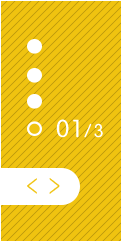
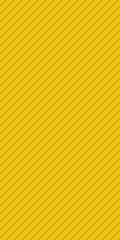
'a'

Changed region(s): [[0.0, 0.0, 1.0, 1.0], [0.875, 0.4083, 0.9, 0.4375], [0.4, 0.9917, 0.425, 1.0]]

diff --git a/css/list.css b/css/list.css
@@ -128,12 +128,61 @@ input, select {
 
 .banner5 {
   width: 1000px;
-  height: auto;
+  height: 250px;
   position: absolute;
+  bottom: 0;
   left: 0;
   right: 0;
-  margin: auto;
-  bottom: 30;
+  margin: 0 auto;
+  background: url(../imgs/list/111.png);
+  background-size: cover;
+  background-repeat: no-repeat;
+  background-size: 100%;
+}
+
+.yuan {
+  width: 50px;
+  height: 180px;
+  text-align: right;
+  padding-top: 10px;
+  padding-left: 10px;
+  box-sizing: border-box;
+}
+
+.yuan1 {
+  width: 25px;
+  height: 25px;
+  border-radius: 50%;
+  background: white;
+  margin-top: 15px;
+  border: 2px solid white;
+  box-sizing: border-box;
+  cursor: pointer;
+}
+
+.yuan span {
+  color: white;
+  margin-left: 25px;
+}
+
+.yuan2 {
+  width: 70px;
+  height: 65px;
+  background: url(../imgs/list/tuo.png);
+  background-size: cover;
+  background-repeat: no-repeat;
+  margin-top: 10px;
+}
+
+.yuan2 a {
+  display: block;
+  width: 25px;
+  height: 60px;
+  float: left;
+  color: #edd325;
+  font-size: 30px;
+  line-height: 40px;
+  text-align: center;
 }
 
 /* banner*/

diff --git a/css/scss/list.scss b/css/scss/list.scss
@@ -80,9 +80,51 @@
     right:0px;
 }
 .banner5{
-    @include k-g(1000px,auto);
-    @include left-right;
-    bottom:30;
+    @include k-g(1000px,250px);
+    position: absolute;
+    bottom: 0;
+    left: 0;
+    right:0;
+    margin:0 auto;
+    @include bg(url(../imgs/list/111.png));
+    background-size: 100%;
+}
+.yuan{
+    width:50px;
+    height:180px;
+    text-align: right;
+    padding-top:10px;
+    padding-left:10px;
+    box-sizing: border-box;
+   
+}
+.yuan1{
+    width:25px;
+    height:25px;
+    border-radius: 50%;
+    background:white;
+    margin-top:15px;
+    border:2px solid white;
+    box-sizing: border-box;
+    cursor: pointer;
+}
+.yuan span{
+    color:white;
+    margin-left:25px;
+}
+.yuan2{
+    @include k-g(70px,65px);
+    @include bg(url(../imgs/list/tuo.png));
+   margin-top:10px;
+}
+.yuan2 a{
+    display: block;
+    @include k-g(25px,60px);
+    float: left;
+    color:$page-yellow;
+    font-size: 30px;
+    line-height: 40px;
+    text-align: center;
 }
 /* banner*/
 #ss{

diff --git a/list.html b/list.html
@@ -18,9 +18,22 @@
 			<div class="banner2"></div>
 			<div class="banner3"></div>
 			<div class="banner4"></div>
-			<div class="banner6"></div>
-			<img src="imgs/list/111.png"  class="banner5"/>
+			<div class="banner6">
+				<div class="yuan">
+					<div class="yuan1"></div>
+					<div class="yuan1"></div>
+					<div class="yuan1"></div>
+					<div class="yuan1"></div>
+					<span>01/3</span>
+				</div>
+				<div class="yuan2">
+					<a href="">&lt;</a>
+					<a href="">&gt;</a>
+				</div>
+			</div>
+			<div class="banner5"></div>
 		</div>
+		<!--banner-->
 		<div id="ss">
 			<input type="text" value="请输入关键字" />
 			<a href="">搜索</a>
